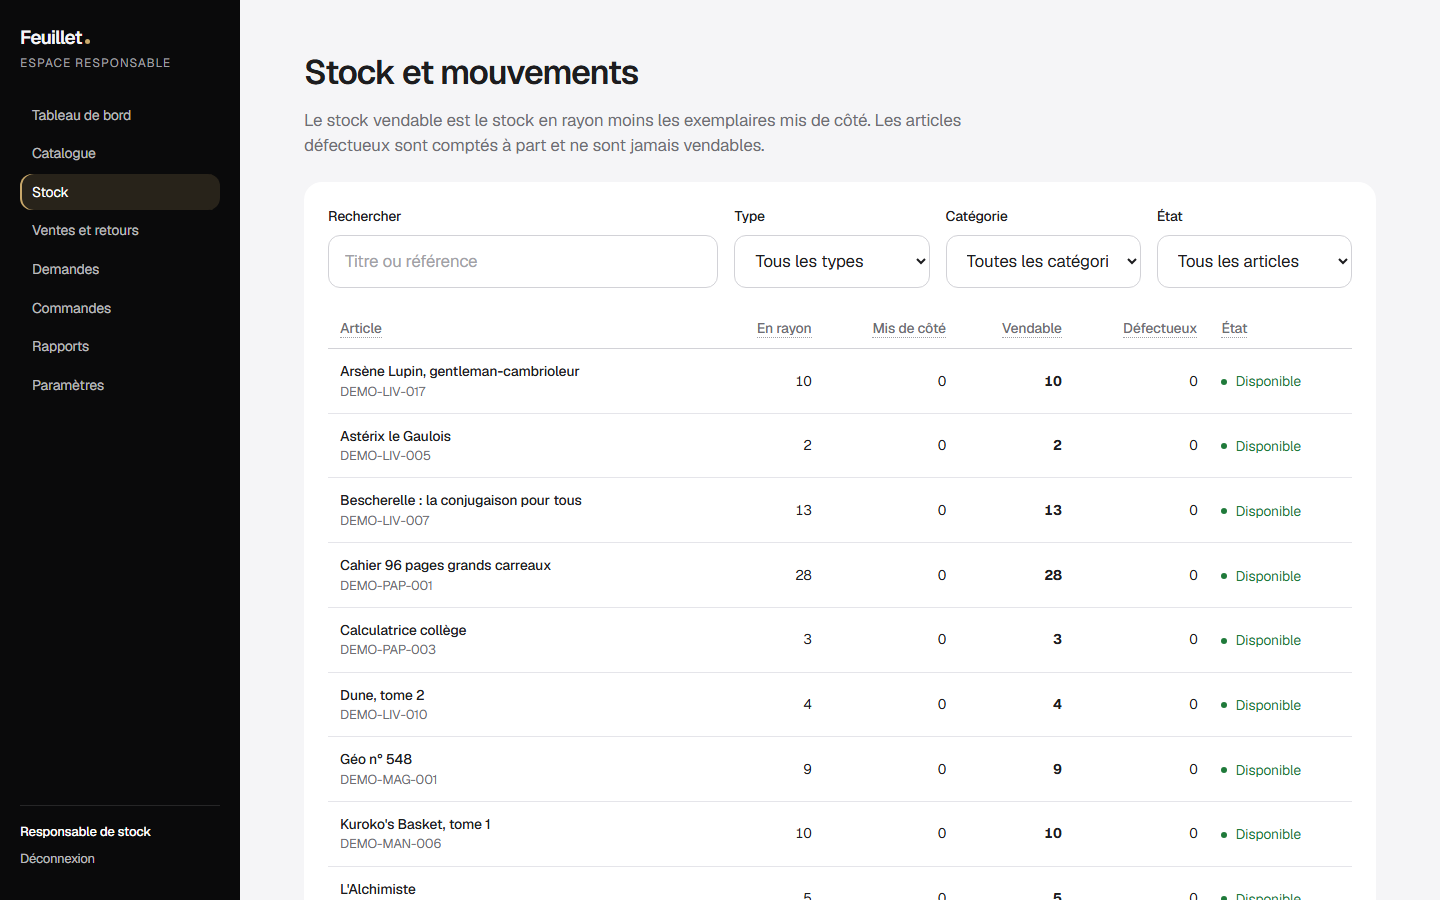
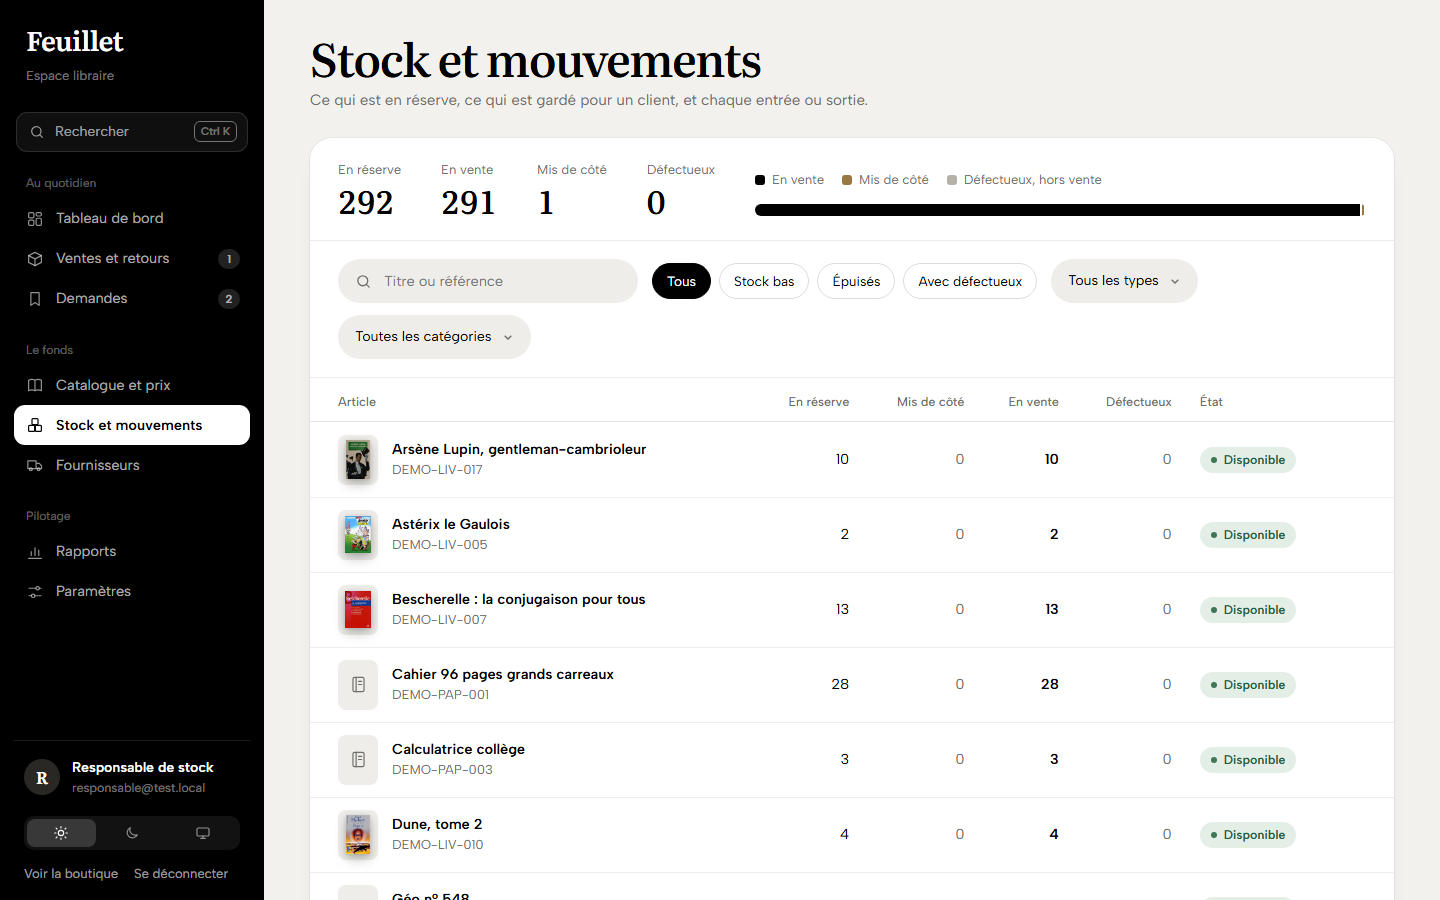
docs: captures du responsable et backlog du design de l'espace responsable (#96)

diff --git a/docs/backlog.md b/docs/backlog.md
@@ -540,3 +540,17 @@ Fait :
 - Section « Captures d'écran » dans le README : un GIF du parcours d'achat (accueil, catalogue, fiche, panier), 8 écrans client, les 8 écrans du responsable et 2 captures sur téléphone
 - Prises avec Playwright sur la démo Docker après `npm run seed` (1440 × 900, et 390 × 844 pour le téléphone), images dans `docs/captures/` (4,3 Mo en tout)
 - En les prenant, on a vu le catalogue déborder sur téléphone : corrigé dans la PR #94 avant les captures
+
+21/11/2026 - Design Feuillet de l'espace responsable (#96)
+
+Fait :
+- Les 8 pages du responsable reprennent la maquette Feuillet : menu latéral avec le nombre de ventes à préparer et de demandes en attente, apparence claire, sombre ou celle du système, info-bulles, et un tiroir à droite pour le détail d'une commande, d'une demande, d'un article, d'une commande fournisseur ou d'un fournisseur
+- Toutes les fonctions déjà faites sont gardées : promotions, historique des prix, seuil d'alerte, archivage et suppression, catégories, inventaire et défectueux, réceptions saisies puis validées, retours, rattachement d'une demande, rapports par semaine ou période libre avec export CSV, paramètres
+- Recherche Ctrl K (ou touche /) : pages, articles, commandes clients, demandes, fournisseurs et actions rapides ; le résultat choisi s'ouvre directement dans sa page
+- Styles de la maquette dans `frontend/src/styles/feuillet-admin.css`, limités à `.espace-responsable` ; les anciens fichiers CSS des pages du responsable sont supprimés
+- Les noms utilisés par le test Playwright du responsable sont gardés : liens du menu, « Commande choisie », « Journal des mouvements », « Stock par article »
+- Captures du responsable dans le README refaites (1440 × 900)
+- Vérifié : 570 tests front dans deux fuseaux horaires, lint, build et les 3 parcours Playwright
+
+À noter :
+- La colonne « En vente » du catalogue compare au stock en rayon, pas à la quantité achetée à l'origine : l'API ne donne cette quantité que pour les articles à recommander
